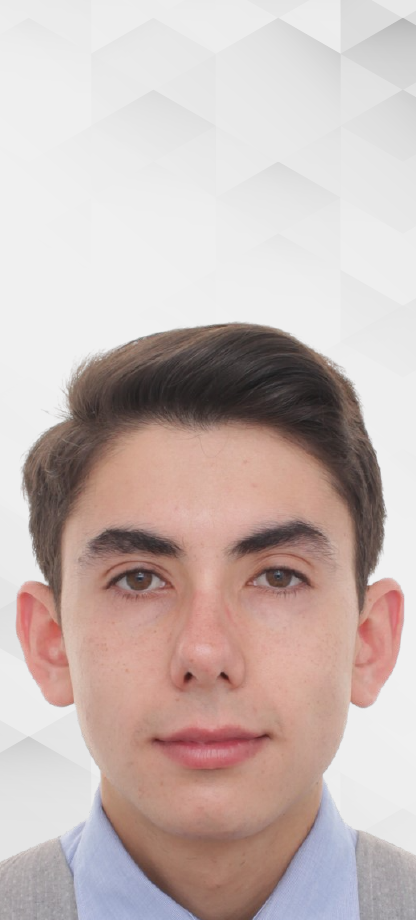
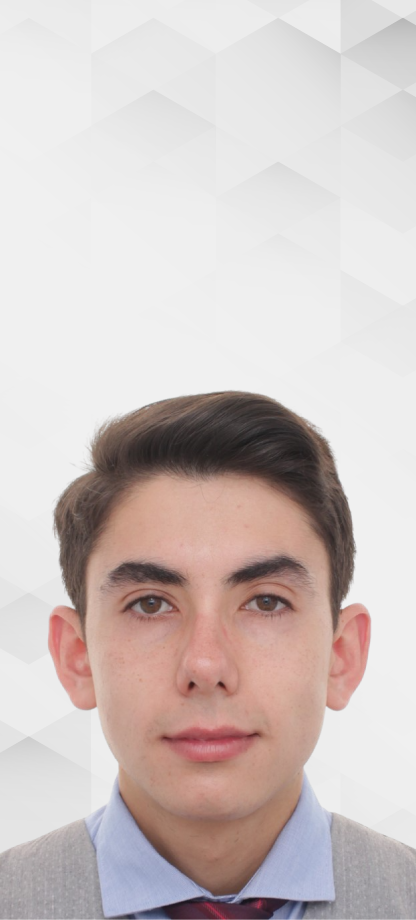
Projects v1.2
Minnor fixes to projects and general

diff --git a/styles.css b/styles.css
@@ -270,10 +270,13 @@ nav {
     z-index: 1;
   }
   body::before {
-    background: url("media/Background mobile.png") no-repeat center center fixed;
+    background: url("./media/Background mobile.png") no-repeat center center fixed;
   }
   .collapse-social-icons-dropdown {
     display: none !important;
+  }
+  .jumbotron {
+    top: 10vh;
   }
   .jumbotron .line {
     margin-left: 0;
@@ -282,7 +285,7 @@ nav {
     height: 8vh;
   }
   #Projects {
-    height: 130vh;
+    height: 140vh;
   }
   #Projects .container {
     -ms-grid-columns: (minmax(50%, 1fr))[auto-fill];

diff --git a/styles.scss b/styles.scss
@@ -285,7 +285,7 @@ nav {
   }
 
   body::before {
-    background: url("media/Background\ mobile.png") no-repeat center center fixed;
+    background: url("./media/Background\ mobile.png") no-repeat center center fixed;
   }
 
   .collapse-social-icons-dropdown {
@@ -295,6 +295,8 @@ nav {
   // About
 
   .jumbotron{
+
+    top: 10vh;
      .line{
        margin-left: 0;
      }
@@ -309,7 +311,7 @@ nav {
 
     // Projects
     #Projects{
-      height: 130vh;
+      height: 140vh;
     }
 
     #Projects .container{
